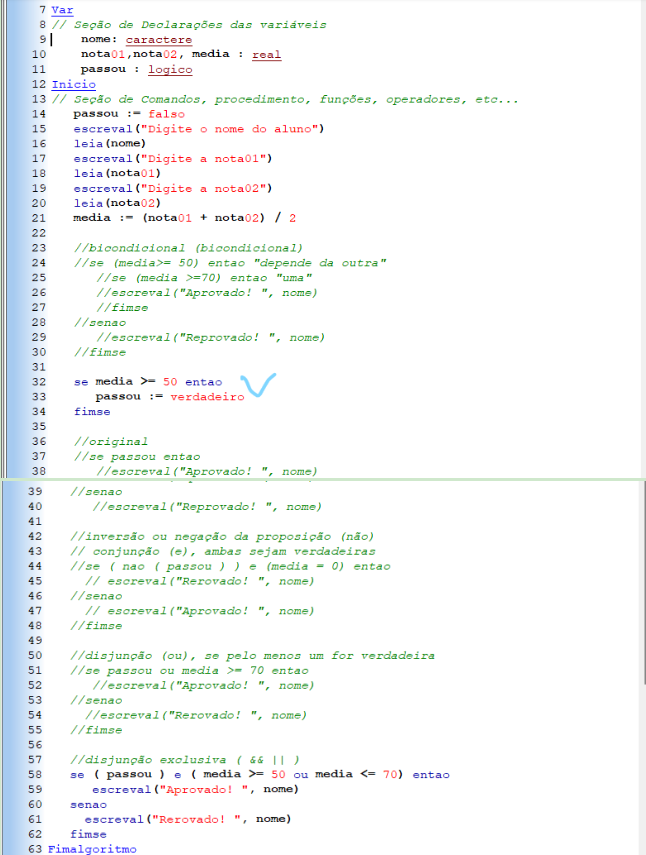
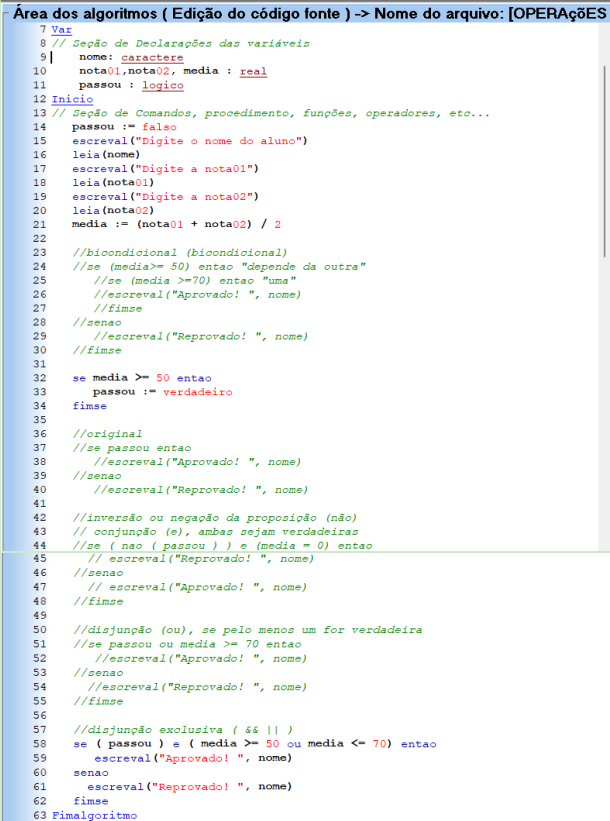
atualização de imagens dos operadores lógicos e posicionamento de paragrafo

diff --git a/src/js/global.js b/src/js/global.js
@@ -462,6 +462,6 @@ function gitAndGithub(){
   const pjs = document.getElementById("PJS");
   pjs.innerHTML = "Principais comandos Git (mais utilizados) considerando um projeto existente remotamente:<br/><br/>° <strong>git clone:</strong> faz uma cópia exata de um repositório remoto para a sua máquina;<br/>°  <strong>git status</strong>: verifica qual o ramo atual, quais arquivos estão sendo rastreados ou não e que precisam ser registrados em uma versão na linha do tempo (commit);</br>° <strong>git add .</strong>: serve para adicionar todos os arquivos que não estão rastreados pelo git, seja um arquivo novo ou modificado ;<br/>° <strong>git commit -m 'mensagem descritiva'</strong>: adiciona os arquivos na linha do tempo como uma nova versão;<br/>° <strong>git checkout novoRamo</strong>: troca de ramo (branch) ou cria uma, caso não exista.;<br/>° <strong>git push</strong>:  atualiza o repositório remoto com base na versão local;<br/>° <strong>git pull</strong>: baixar a versão do ramo remoto para a máquina local ;<br/>° <strong>git remote add origin https://github.com/seu-usuario/seu-projeto.git.</strong>: cria um vínculo do repositório local com o remoto, sendo origin o apelido padrão desta nova conexão e o link é o endereço do repositório remoto.;<br/>° <strong>merge (mescla ou fusão) e pull-request (solicitação de mudança)</strong>:<br/>Para explicar os dois, precisa partir do uso dos ramos (branches), eles são importantes para gerar versões separadas/em desenvolvimento de algum recurso novo (feature)/incremental que busca aprimorar e preservar a versão principal (main/trunk) até chegar em uma versão final. Por exemplo, versão 1.1 inclusão de um novo botão interativo, versão 1.2 criação do arquivo js, versão 2.0 botão incluído e funcionando. Neste ponto chega-se ao pull-request para que a versão x.x seja apresentada as pessoas, e ser analisada e aprovada por elas (membros da equipe), e uma aprovada ela pode ser merged (mesclada) com a versão principal. ";
   const paragrafo = document.getElementById("paragrafo");
-  paragrafo.style = "position: absolute; margin:10px; left: 48.8%; top: 135%; font-size: larger;font-weight: 700;text-shadow: -16px 15px 20px rgba(217, 212, 212, 1);background-color: rgba(51, 255, 48, 1);border: 8px dashed yellow; padding: 10px; margin-top: 20px;"
+  paragrafo.style = "position: absolute; margin:10px; left: 47%; top: 120%; font-size: larger;font-weight: 700;text-shadow: -16px 15px 20px rgba(217, 212, 212, 1);background-color: rgba(51, 255, 48, 1);border: 8px dashed yellow; padding: 10px; margin-top: 20px;"
   paragrafo.innerHTML = "Hackerrank:<br/><a href='https://www.hackerrank.com/challenges/camelcase/problem' target='new_blank'>CamelCase</a><br/><a href='https://www.hackerrank.com/challenges/missing-numbers/problem' target='new_blank'>Missing Numbers</a>"
 }

diff --git a/src/js/operacoes_logicas.js b/src/js/operacoes_logicas.js
@@ -32,11 +32,11 @@ if(media >= 50){//depende da outra
    if (passou || media >= 70)
       alert("Aprovado! "+ nome);
    else
-     alert("Rerovado! "+ nome);
+     alert("Reprovado! "+ nome);
 
 */
 //disjunção exclusiva ( && || )
    if ( ( passou ) && ( media >= 50 || media <= 70) )
       alert("Aprovado! "+ nome);
    else
-     alert("Rerovado! "+ nome);
+     alert("Reprovado! "+ nome);
